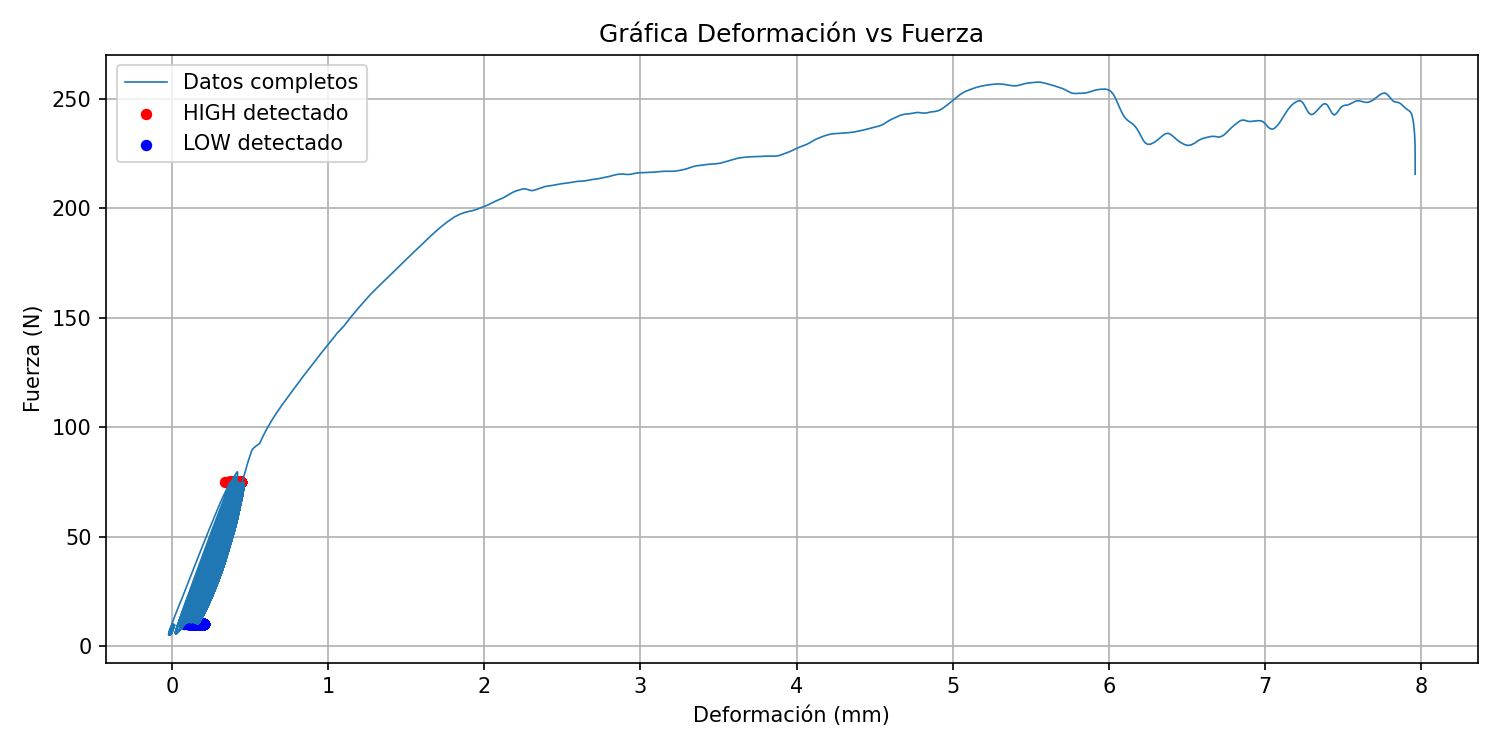
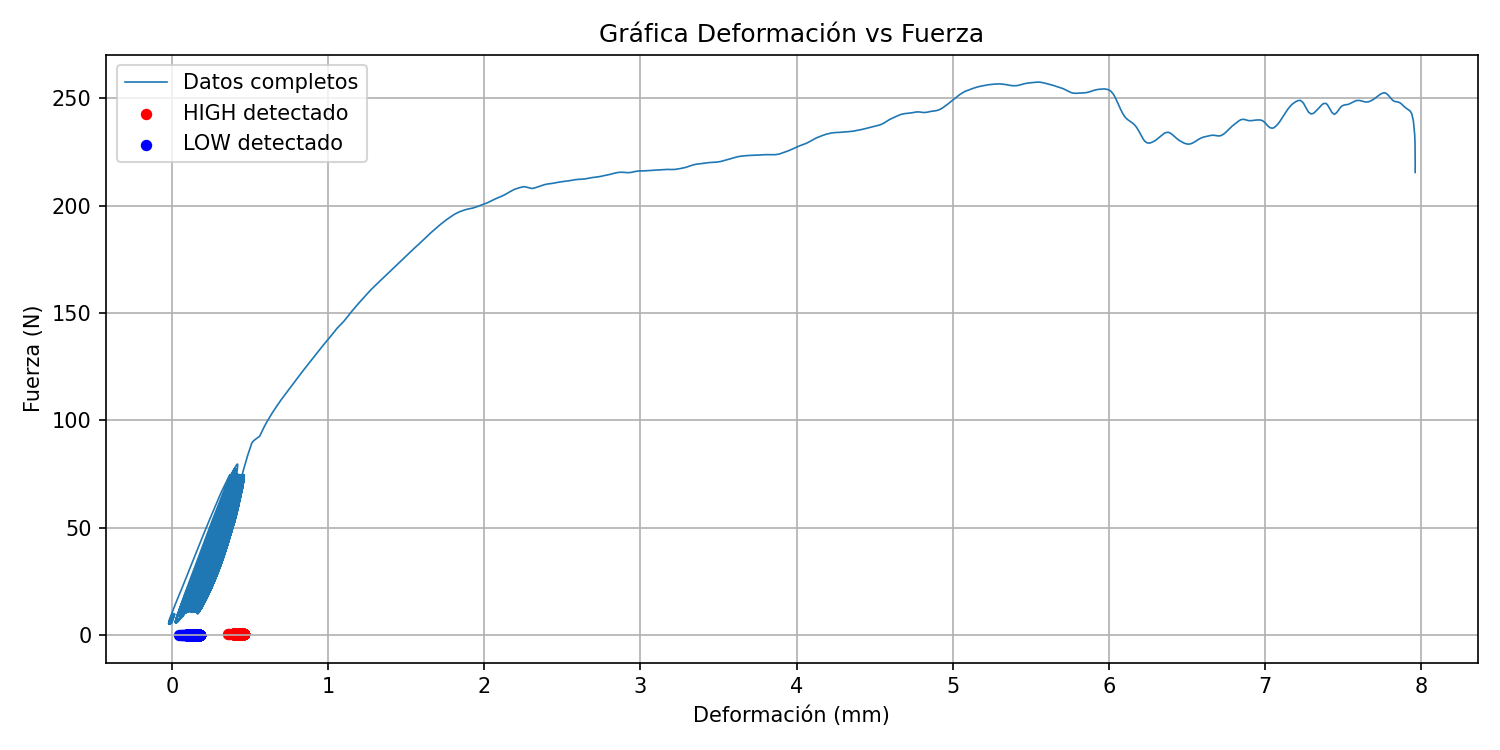
deteccion ciclos automatica

diff --git a/src/cycle_detection.py b/src/cycle_detection.py
@@ -1,32 +1,74 @@
-def detectar_ciclos(df, HIGH, LOW, TOL):
+import numpy as np
+import pandas as pd
+
+def detectar_ciclos(df, min_force=10, smooth_window=5):
     """
-    Detecta ciclos HIGH→LOW y devuelve:
-        - total de ciclos
-        - lista de dicts: {ciclo, deform_high, deform_low}
+    Detecta ciclos HIGH→LOW de forma automática usando picos y valles.
+    
+    Retorna:
+        - n_ciclos: cantidad de ciclos detectados
+        - detalles: lista de dicts con:
+            { "ciclo": n, "deform_high": xh, "deform_low": xl }
     """
 
-    arriba = False
-    ciclos = 0
-    detalles = []
-    deform_high = None
+    fuerza = df["Fuerza"].values
+    deform = df["Deformacion"].values
 
-    for i in range(len(df)):
-        f = df.loc[i, "Fuerza"]
-        d = df.loc[i, "Deformacion"]
+    # ==============================
+    # 1) Suavizar para reducir ruido
+    # ==============================
+    if smooth_window > 1:
+        fuerza_smooth = np.convolve(
+            fuerza, np.ones(smooth_window)/smooth_window, mode='same'
+        )
+    else:
+        fuerza_smooth = fuerza
 
-        # Detecta HIGH
-        if not arriba and (HIGH - TOL <= f <= HIGH + TOL):
-            arriba = True
-            deform_high = d
+    # ==============================
+    # 2) Detectar picos y valles
+    # ==============================
+    picos = []
+    valles = []
 
-        # Detecta LOW (fin de ciclo)
-        if arriba and (LOW - TOL <= f <= LOW + TOL):
-            ciclos += 1
-            detalles.append({
-                "ciclo": ciclos,
-                "deform_high": deform_high,
-                "deform_low": d
-            })
-            arriba = False
+    for i in range(1, len(fuerza_smooth) - 1):
+        f_prev = fuerza_smooth[i - 1]
+        f = fuerza_smooth[i]
+        f_next = fuerza_smooth[i + 1]
 
-    return ciclos, detalles
+        # Pico local
+        if f > f_prev and f > f_next and f > min_force:
+            picos.append(i)
+
+        # Valle local
+        if f < f_prev and f < f_next and f > min_force:
+            valles.append(i)
+
+    # ==============================
+    # 3) Emparejar picos → valles para formar ciclos
+    # ==============================
+    ciclos = []
+    v_index = 0
+
+    for p in picos:
+        # Buscar el valle que venga DESPUÉS del pico
+        while v_index < len(valles) and valles[v_index] < p:
+            v_index += 1
+
+        if v_index >= len(valles):
+            break  # no hay más valles → empieza el pullout
+
+        v = valles[v_index]
+
+        # Ignorar caídas falsas pequeñas
+        if fuerza_smooth[v] > fuerza_smooth[p] * 0.8:
+            continue
+
+        ciclos.append({
+            "ciclo": len(ciclos) + 1,
+            "deform_high": deform[p],
+            "deform_low": deform[v]
+        })
+
+        v_index += 1
+
+    return len(ciclos), ciclos

diff --git a/src/main.py b/src/main.py
@@ -9,36 +9,37 @@ from src.pdf_generator import generar_pdf
 archivo_csv = "datasets/500Ciclos+Pullout_7.csv"
 df = cargar_y_preparar_csv(archivo_csv)
 
-# -------------------------------
-# Input del usuario
-# -------------------------------
-print("\n--- Configuración del ciclo ---")
-HIGH = float(input("Introduce el valor alto del ciclo (HIGH, N): "))
-LOW = float(input("Introduce el valor bajo del ciclo (LOW, N): "))
-TOL = float(input("Introduce tolerancia (ej. 5 o 10): "))
+# ==============================
+# 2) Detectar ciclos automáticamente
+# ==============================
+print("\nDetectando ciclos...")
 
-# -------------------------------
-# Detectar ciclos
-# -------------------------------
-ciclos_totales, detalles = detectar_ciclos(df, HIGH, LOW, TOL)
+ciclos_totales, detalles = detectar_ciclos(df, min_force=10, smooth_window=5)
 
 print(f"\nNúmero total de ciclos detectados: {ciclos_totales}")
 
-# Seleccionar ciclos específicos
-targets = [100, 250, 500]
+# ==============================
+# 3) Selección de ciclos concretos
+# ==============================
+targets = [100, 200, 300, 400, 500]
 ciclos_seleccionados = {}
 
 for t in targets:
-    ciclo_data = next((x for x in detalles if x["ciclo"] == t), None)
-    if ciclo_data:
-        ciclos_seleccionados[t] = ciclo_data
-        print(f"\nCiclo {t}: HIGH={ciclo_data['deform_high']:.6f}, LOW={ciclo_data['deform_low']:.6f}")
-    else:
-        print(f"\n⚠ Ciclo {t} no existe.")
+        ciclo_data = next((x for x in detalles if x["ciclo"] == t), None)
+        if ciclo_data:
+            ciclos_seleccionados[t] = ciclo_data
+            print(f"\nCiclo {t}:")
+            print(f"  HIGH deform: {ciclo_data['deform_high']:.6f}")
+            print(f"  LOW deform:  {ciclo_data['deform_low']:.6f}")
+        else:
+            print(f"\n⚠ Ciclo {t} no existe (solo hay {ciclos_totales})")
+
 
 # -------------------------------
 # Gráfico
 # -------------------------------
+HIGH = max(d['deform_high'] for d in detalles)
+LOW = min(d['deform_low'] for d in detalles)
 grafico_file = plot_ciclos(df, detalles, HIGH, LOW)
 
 # -------------------------------
